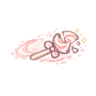
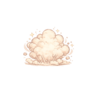
v 1.09

Changed region(s): [[0.0938, 0.2812, 0.9062, 0.6875]]

diff --git a/js/characterData.js b/js/characterData.js
@@ -1,4 +1,4 @@
-// v1.0.8 fallback character data generated from assets/characters/*/character.json
+// v1.0.9 fallback character data generated from assets/characters/*/character.json
 window.HOUHOU_CHARACTER_DATA = [
   {
     "id": 14,
@@ -16,7 +16,7 @@ window.HOUHOU_CHARACTER_DATA = [
     "stopGap": 16,
     "critRate": 0.15,
     "attackType": "projectile",
-    "projectilePath": "assets/projectiles/awakened_eungae/candy.png",
+    "projectilePath": "assets/projectiles/awakened_eungae/Pacifier.png",
     "projectileSpeed": 620,
     "frameSize": 96,
     "spritePath": "assets/characters/awakened_eungae/",
@@ -1091,7 +1091,8 @@ window.HOUHOU_CHARACTER_DATA = [
         "chance": 0.5,
         "text": "각성",
         "once": true,
-        "preserveHpRatio": true
+        "preserveHpRatio": true,
+        "healAfterTransformRatio": 0.3
       }
     },
     "assets": {
@@ -1122,7 +1123,8 @@ window.HOUHOU_CHARACTER_DATA = [
       "chance": 0.5,
       "text": "각성",
       "once": true,
-      "preserveHpRatio": true
+      "preserveHpRatio": true,
+      "healAfterTransformRatio": 0.3
     }
   },
   {

diff --git a/js/battleActors.js b/js/battleActors.js
@@ -164,7 +164,14 @@ this.x=x;this.y=505;this.dir=dir;this.maxHp=this.hp;this.state='idle';this.frame
   this.attackRange=this.gridAttackRange*GRID_CELL;
   if(this.projectileSpeedCells)this.projectileSpeed=this.projectileSpeedCells*GRID_CELL;
   this.x=keep.x;this.y=keep.y;this.dir=keep.dir;this.maxHp=this.hp;
-  this.hp=tf&&tf.preserveHpRatio===false?Math.min(this.maxHp,keep.hp):Math.max(1,Math.min(this.maxHp,Math.round(this.maxHp*ratio)));
+  let nextHp=tf&&tf.preserveHpRatio===false?Math.min(this.maxHp,keep.hp):Math.max(1,Math.min(this.maxHp,Math.round(this.maxHp*ratio)));
+  if(tf&&tf.healAfterTransformRatio){
+   nextHp+=Math.round(this.maxHp*Number(tf.healAfterTransformRatio));
+  }
+  if(tf&&tf.healAfterTransform){
+   nextHp+=Number(tf.healAfterTransform);
+  }
+  this.hp=Math.max(1,Math.min(this.maxHp,Math.round(nextHp)));
   this.state='hit';this.anim=0;this.frame=0;this.attackTimer=.25;this.attackAnimLock=0;this.hitTimer=.25;this.stunTimer=keep.stunTimer;this.paralyzeCooldown=keep.paralyzeCooldown;this.knock=0;this.flash=.45;this.isDead=false;this.transformedOnce=true;
  }
  draw(c,debug,hidden=false){c.save();c.fillStyle='rgba(0,0,0,.12)';c.beginPath();c.ellipse(this.x,this.y+42,45,12,0,0,6.28);c.fill();if(hidden){this.drawHidden(c);c.restore();return;}this.hpbar(c, this.dir<0 ? 78 : -78, -18);if(debug)this.debug(c);let img=this.sprites[this.state]||this.sprites.idle;c.translate(this.x-this.dir*this.knock,this.y);c.scale(this.dir,1);if(img)c.drawImage(img,this.frame*this.frameSize,0,this.frameSize,this.frameSize,-96,-118,192,192);if(this.flash>0){c.globalAlpha=Math.min(.65,this.flash*5);c.fillStyle='#fff';c.globalCompositeOperation='source-atop';c.fillRect(-96,-118,192,192);}c.restore();if(this.stunTimer>0){c.save();c.textAlign='center';c.font='bold 18px sans-serif';c.fillStyle='#2d8cff';c.fillText('마비',this.x,this.y-172);c.strokeStyle='rgba(45,140,255,.75)';c.lineWidth=3;c.beginPath();c.ellipse(this.x,this.y-122,36,10,0,0,6.28);c.stroke();c.restore();}}

diff --git a/js/dataLoader.js b/js/dataLoader.js
@@ -1,4 +1,4 @@
-// v1.0.8 Data-Driven loader
+// v1.0.9 Data-Driven loader
 // character.json 기준 역할:
 // projectile   = 원거리 캐릭터의 날아가는 투사체
 // attackEffect = 근접 캐릭터의 공격 중 표시 이미지
@@ -82,6 +82,8 @@ function normalizeCharacterData(raw){
    text:tf.text??'각성',
    once:Boolean(tf.once??true),
    preserveHpRatio:Boolean(tf.preserveHpRatio??true),
+   healAfterTransformRatio:asNumber(tf.healAfterTransformRatio??tf.healRatio??tf.recoverHpRatio,0),
+   healAfterTransform:asNumber(tf.healAfterTransform??tf.healHp??tf.recoverHp,0),
    resetOnRound:Boolean(tf.resetOnRound??true)
   };
   if(d.transform.hpBelow>1)d.transform.hpBelow/=100;

diff --git a/index.html b/index.html
@@ -1,1 +1,1 @@
-<!doctype html><html lang="ko"><head><meta charset="utf-8"><meta name="viewport" content="width=device-width,initial-scale=1,user-scalable=no"><title>HouHou Engine v1.0.8</title><link rel="stylesheet" href="style.css?v=engine1.0.8"></head><body><canvas id="game"></canvas><script src="js/houhouEngine.js?v=engine1.0.8"></script><script src="js/characterData.js?v=engine1.0.8"></script><script src="js/dataLoader.js?v=engine1.0.8"></script><script src="js/uiCore.js?v=engine1.0.8"></script><script src="js/profileGrid.js?v=engine1.0.8"></script><script src="js/assetManager.js?v=engine1.0.8"></script><script src="js/audioManager.js?v=engine1.0.8"></script><script src="js/gachaManager.js?v=engine1.0.8"></script><script src="js/combatEffects.js?v=engine1.0.8"></script><script src="js/gachaDraft.js?v=engine1.0.8"></script><script src="js/battleActors.js?v=engine1.0.8"></script><script src="js/battleSystem.js?v=engine1.0.8"></script><script src="js/gameApp.js?v=engine1.0.8"></script></body></html>
+<!doctype html><html lang="ko"><head><meta charset="utf-8"><meta name="viewport" content="width=device-width,initial-scale=1,user-scalable=no"><title>HouHou Engine v1.0.9</title><link rel="stylesheet" href="style.css?v=engine1.0.9"></head><body><canvas id="game"></canvas><script src="js/houhouEngine.js?v=engine1.0.9"></script><script src="js/characterData.js?v=engine1.0.9"></script><script src="js/dataLoader.js?v=engine1.0.9"></script><script src="js/uiCore.js?v=engine1.0.9"></script><script src="js/profileGrid.js?v=engine1.0.9"></script><script src="js/assetManager.js?v=engine1.0.9"></script><script src="js/audioManager.js?v=engine1.0.9"></script><script src="js/gachaManager.js?v=engine1.0.9"></script><script src="js/combatEffects.js?v=engine1.0.9"></script><script src="js/gachaDraft.js?v=engine1.0.9"></script><script src="js/battleActors.js?v=engine1.0.9"></script><script src="js/battleSystem.js?v=engine1.0.9"></script><script src="js/gameApp.js?v=engine1.0.9"></script></body></html>

diff --git a/js/assetManager.js b/js/assetManager.js
@@ -1,4 +1,4 @@
-// v1.0.8: Asset loading. Legacy generic effect removed.
+// v1.0.9: Asset loading. Legacy generic effect removed.
 class Assets{
  async load(){
   const db=await loadCharacterDatabase();

diff --git a/js/gameApp.js b/js/gameApp.js
@@ -30,5 +30,5 @@ class Game{
  this.hideDraft=true;
 }),new Button(770,620,180,52,'초기화',()=>{this.draft.reset();this.hideDraft=false;this.battle=new Battle(this.assets,this.effects,this.audio);}),new Button(1070,25,160,46,'캐릭터',()=>{this.audio.unlock();this.audio.system('click');this.profileGrid.open();}),new Button(1070,78,160,46,'사운드 ON',()=>{this.audio.unlock();this.audio.toggle();this.buttons[this.buttons.length-1].label=this.audio.enabled?'사운드 ON':'사운드 OFF';})];requestAnimationFrame(t=>this.loop(t));}
  loop(t){let dt=Math.min((t-this.last)/1000||0,.033);this.last=t;this.effects.update(dt);this.battle.update(dt);this.draft.update(dt);this.draw();requestAnimationFrame(tt=>this.loop(tt));}
- draw(){let c=this.ctx,off=this.effects.offset();c.clearRect(0,0,this.w,this.h);c.save();c.translate(off.x,off.y);if(this.assets.bg)c.drawImage(this.assets.bg,0,0);else{c.fillStyle='#fff';c.fillRect(0,0,this.w,this.h);}this.battle.draw(c,this.debug);this.effects.draw(c);c.restore();if(!this.hideDraft)this.draft.draw(c);this.buttons.forEach(b=>b.draw(c));panel(c,210,685,860,28,10);c.fillStyle='#111';c.textAlign='center';c.font='15px sans-serif';c.fillText('HouHou Engine v1.0.8 | effect 정리',640,705);c.textAlign='right';c.font='bold 15px sans-serif';c.fillStyle='rgba(20,20,20,.92)';c.fillText('Art by 홍은성',1250,705);c.textAlign='left';if(this.profileGrid)this.profileGrid.draw(c);}
+ draw(){let c=this.ctx,off=this.effects.offset();c.clearRect(0,0,this.w,this.h);c.save();c.translate(off.x,off.y);if(this.assets.bg)c.drawImage(this.assets.bg,0,0);else{c.fillStyle='#fff';c.fillRect(0,0,this.w,this.h);}this.battle.draw(c,this.debug);this.effects.draw(c);c.restore();if(!this.hideDraft)this.draft.draw(c);this.buttons.forEach(b=>b.draw(c));panel(c,210,685,860,28,10);c.fillStyle='#111';c.textAlign='center';c.font='15px sans-serif';c.fillText('HouHou Engine v1.0.9 | transform HP 회복',640,705);c.textAlign='right';c.font='bold 15px sans-serif';c.fillStyle='rgba(20,20,20,.92)';c.fillText('Art by 홍은성',1250,705);c.textAlign='left';if(this.profileGrid)this.profileGrid.draw(c);}
 }

diff --git a/js/managers/CharacterManager.js b/js/managers/CharacterManager.js
@@ -1,4 +1,4 @@
-// v1.0.8: CharacterManager helper aligned with projectile / attackEffect / hitEffect schema.
+// v1.0.9: CharacterManager helper aligned with projectile / attackEffect / hitEffect schema.
 class CharacterManager{
  static asNumber(v,def=0){const n=Number(v);return Number.isFinite(n)?n:def;}
  static normalizeEffectConfig(src,defaults={}){

diff --git a/CHANGELOG.md b/CHANGELOG.md
@@ -146,3 +146,10 @@
 - 미사용 `assets/effects/` 폴더 및 `*.meta.json` 제거
 - `assetManager.js`, `dataLoader.js`, `characterData.js`, `CharacterManager.js`의 legacy effect 참조 제거
 - 변신 시스템(v1.0.7)은 유지
+
+## v1.0.9 - Transform HP recovery
+- 변신 직후 HP 회복 옵션을 추가했습니다.
+- `transform.healAfterTransformRatio`: 변신 후 최대 HP 기준 비율 회복. 예: `0.3` = 최대 HP의 30% 회복.
+- `transform.healAfterTransform`: 변신 후 고정 HP 회복.
+- 회복 후 HP는 변신 대상 캐릭터의 maxHp를 넘지 않도록 제한됩니다.
+- 걍사람 → 각성한 걍사람 변신에 기본 `healAfterTransformRatio: 0.3`을 적용했습니다.